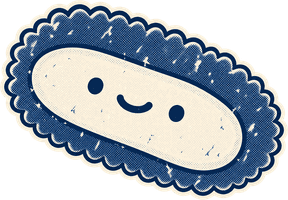
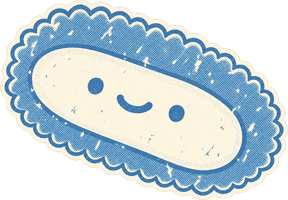
[UI] 푸터 크로켓 아이콘 교체하고 섹션을 아래로 내림
- 푸터 아이콘을 파스텔 블루 크로켓 그림으로 교체
- 푸터 위 여백을 19px에서 46px로 늘려 본문과 더 떨어지게 함

diff --git a/src/style.css b/src/style.css
@@ -533,7 +533,7 @@ footer { margin-top: 32px; font-size: 10px; text-align: center; color: var(--ina
 .stamp-heading-stamp{position:absolute;right:26px;bottom:-2px;width:auto;height:58px;transform:rotate(7deg);pointer-events:none;-webkit-user-drag:none;--sway-base:rotate(7deg);animation-name:sticker-sway-soft;animation-duration:5.2s;animation-delay:-1.6s;transform-origin:50% 90%;}
 @media(max-width:360px){.stamp-heading-stamp{right:20px;height:50px;}}
 /* 푸터는 크로켓 아이콘과 문구를 묶어 가운데 두고, 문구만 로고 쪽으로 붙여 왼쪽 정렬한다. */
-.brand-footer{display:flex;align-items:center;justify-content:center;gap:11px;text-align:left;}
+.brand-footer{display:flex;align-items:center;justify-content:center;gap:11px;margin-top:46px;text-align:left;}
 .brand-footer-logo{flex-shrink:0;width:auto;height:34px;}
 .brand-footer-copy{min-width:0;}
 .brand-footer-copy p{margin:0 0 2px;}
